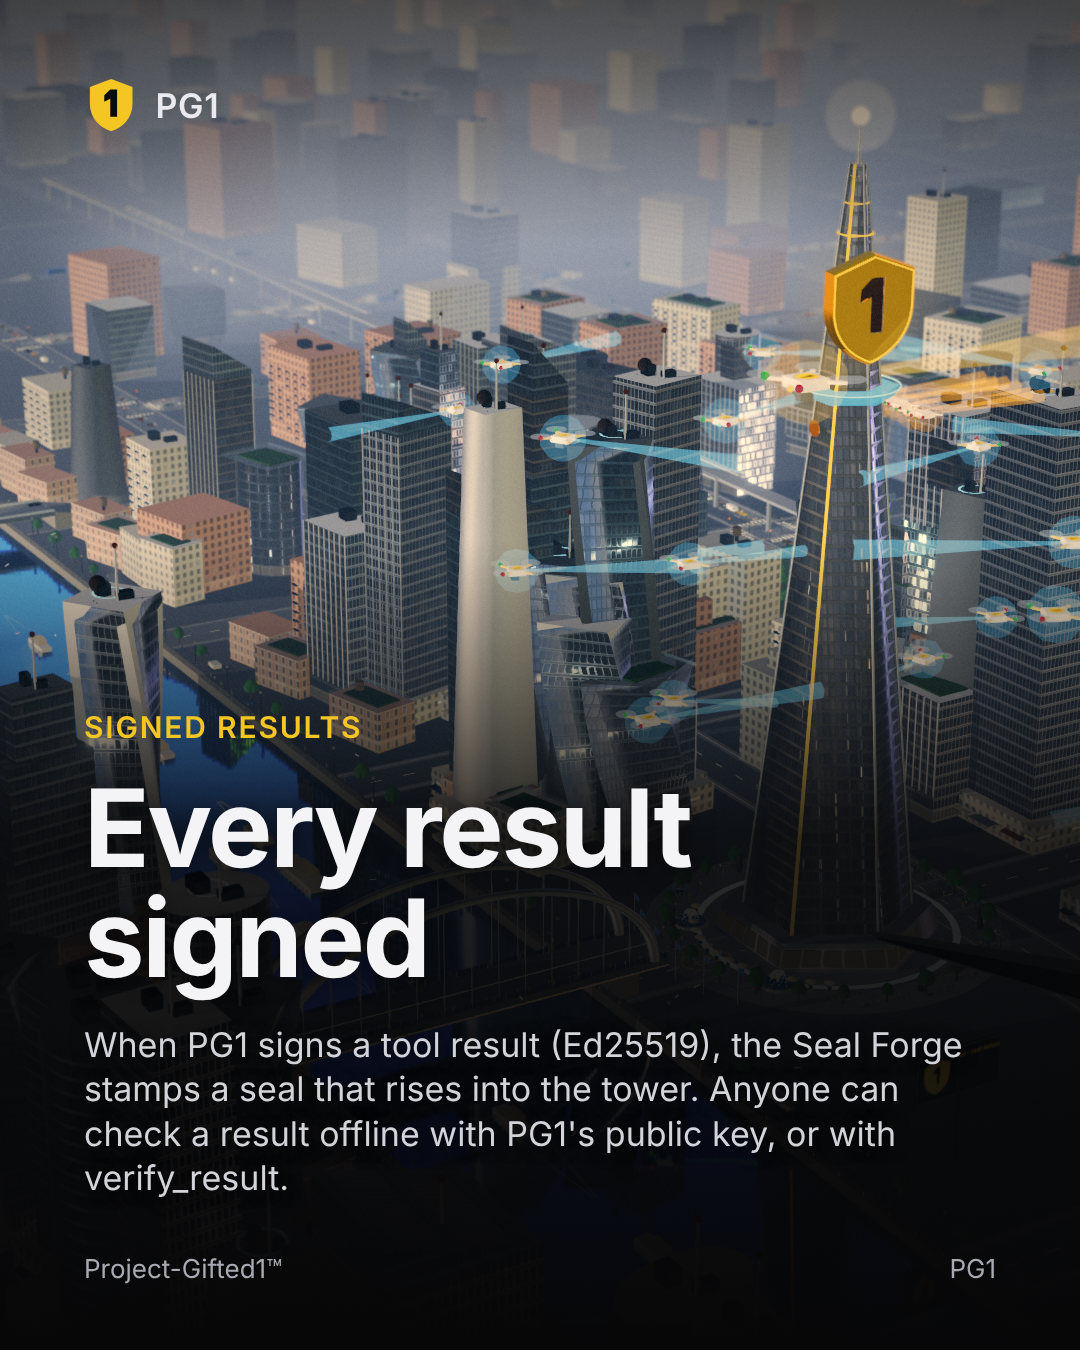
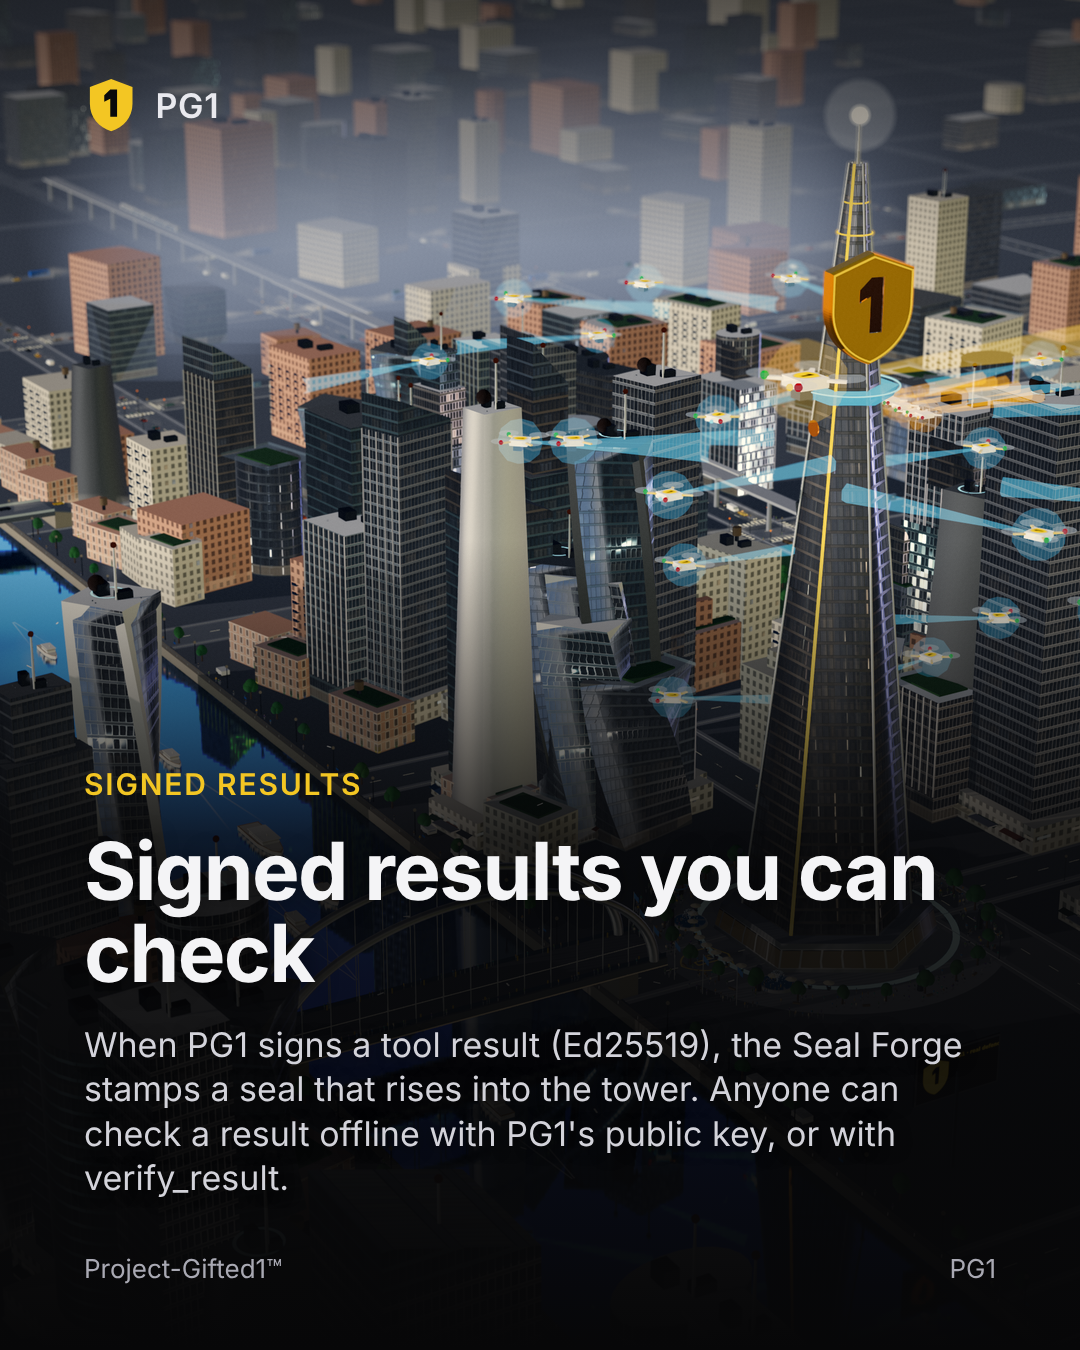
Inside PG1 City: the six-shot re-cut with its lower thirds, the two post captions, no place names on screen
Reel: crown tower, probe, river, patrols, weather, whole city (24.2 s, the
4.5 s renders of run 45421308040 at 3302d8c), each lower third from the
render's counts; the first on screen from frame one. The feed window now
reads 212 events (213 before), 12 countries. copy.md: the Instagram/TikTok
and X captions word for word, the reel table for the new cut, the data
notes and the weather credit kept. Slides, Story and both contact sheets
rebuilt from the same renders.

Claude-Session: https://claude.ai/code/session_01X8yNKFkrAckvfbCsbkHhN5

Changed region(s): [[0.0, 0.0, 1.0, 0.7467], [0.5194, 0.4667, 0.55, 0.4978]]

diff --git a/docs/social/2026-11-24/copy.md b/docs/social/2026-11-24/copy.md
@@ -5,38 +5,49 @@ Built by `scripts/social-inside-city.mjs` from the Showcase render (`scripts/sho
 ## Data
 
 - **Window:** the defence feed's last 7 days, read only, up to 2026-11-24T00:14:54.000Z (UTC).
-- **Events:** real PG1 events, last 7 days to 2026-11-24T00:14:54.000Z (213 shown of 216; payments and caller hashes left out).
+- **Events:** real PG1 events, last 7 days to 2026-11-24T00:14:54.000Z (212 shown of 215; payments and caller hashes left out).
 - **Counts shown:** probes and checks from 12 countries (CA, CZ, DE, FI, FR, GB, HK, IL, KR, NL, RU, US), events dated 20 Nov, 23:47 to 23 Nov, 23:36. Countries come from IP geolocation and are approximate. No payment figure is shown anywhere.
 - **Weather:** Dublin, recorded (Open-Meteo archive (ERA5 reanalysis)): 2026-11-23T05:00 51 (rain) then 2026-11-23T06:00 3 (clearing), Europe/Dublin time. Weather data by Open-Meteo.com (CC BY 4.0). Not live.
 - **Privacy:** no caller hash, IP or anything identifying a caller is in the renders, the reel or this file.
 
 ## Reel (`reel-1080x1920.mp4`)
 
-30.0 s, 1080 x 1920, H.264 (libx264 -preset veryfast -crf 18), yuv420p, 30 fps, 0.5 s crossfades, no audio.
+Download: [reel-1080x1920.mp4](https://github.com/Project-Gifted1/pg1-ai-agent/releases/download/social-2026-11-24/reel-1080x1920.mp4) (release asset `social-2026-11-24`; the MP4 is kept out of git).
+
+24.2 s, 1080 x 1920, H.264 (libx264 -preset veryfast -crf 18), yuv420p, 30 fps, 0.2 s crossfades, no audio.
+
+6 shots in this order; each lower third is on screen for the whole shot, the first from the first frame. No city or place name in any caption or label.
 
 | Shot | Lower third | In the reel | Real data replayed |
 |---|---|---|---|
-| The crown tower | "Every event is real" | 3.2 s | none (no event staged) |
-| A real probe arrives | "Probes from 12 countries" | 3.2 s | probe US Gate Wardens: malformed call (23 Nov, 23:36) |
-| A result is signed | left out: no real signed result in the last 7 days | - | none (no event staged) |
-| Lane traffic at a junction | "Traffic keeps its lanes" | 3.2 s | none (no event staged) |
-| The river and the arched bridge | "Boats on the river" | 3.2 s | none (no event staged) |
-| Patrols meet real probes | "Patrols meet real probes" | 3.2 s | check verdict DE: flagged agent message (23 Nov, 12:16); check verdict US: flagged repo trap (21 Nov, 00:28); approval: waiting for approval (23 Nov, 07:30); probe DE Gate Wardens: unknown method probe (23 Nov, 22:35) |
-| Real Dublin weather | "Real Dublin weather" | 3.2 s | recorded weather 2026-11-23T05:00 → 2026-11-23T06:00 |
-| Street level in the plaza | "People in the plaza" | 3.2 s | none (no event staged) |
-| The tram line by day | "Trams on the line" | 3.2 s | none (no event staged) |
-| The city by day | "The city by day" | 3.2 s | none (no event staged) |
-| Day to night | "Windows follow Dublin time" | 3.2 s | none (no event staged) |
-| Director mode | left out: cut in the edit: its follow camera ends in a dark close-up on the river; the whole-city shot replays the same director events | - | none (no event staged) |
-| The whole city | "Inside PG1 City" | 3.2 s | check verdict DE: flagged agent message (23 Nov, 12:16); check verdict US: flagged repo trap (21 Nov, 00:28); approval: waiting for approval (23 Nov, 07:30); probe DE Gate Wardens: unknown method probe (23 Nov, 22:35) |
+| The crown tower | "A city built from real AI-agent activity" | 4.2 s | none (no event staged) |
+| A real probe arrives | "212 real events in 7 days" | 4.2 s | probe US Gate Wardens: malformed call (23 Nov, 23:36) |
+| The river and the arched bridge | "One week, replayed as it happened" | 4.2 s | none (no event staged) |
+| Patrols meet real probes | "Probes and checks from 12 countries" | 4.2 s | check verdict DE Truth Lens: malicious (23 Nov, 12:16); check verdict US Repo Trap Scanner: malicious (21 Nov, 00:28); probe DE Gate Wardens: unknown method probe (23 Nov, 22:35); report Watchtower Beacons: report landed (23 Nov, 07:30) |
+| Recorded weather | "Real weather, real time of day" | 4.2 s | recorded weather 2026-11-23T05:00 → 2026-11-23T06:00 |
+| The whole city | "Free checks for AI agents · Link in bio" | 4.2 s | check verdict DE Truth Lens: malicious (23 Nov, 12:16); check verdict US Repo Trap Scanner: malicious (21 Nov, 00:28); probe DE Gate Wardens: unknown method probe (23 Nov, 22:35); report Watchtower Beacons: report landed (23 Nov, 07:30) |
 
-## Post caption (ready to paste)
+Rendered for the carousel only (not in the reel): a result is signed, lane traffic at a junction, street level in the plaza, the tram line by day, the city by day, day to night.
 
-Inside PG1 City: a live 3D city drawn from PG1's real activity. 213 real events in 7 days (17 Nov–24 Nov 2026), with probes and checks from 12 countries, replayed as they happened. Boats, trams, traffic and Dublin's recorded weather fill in the rest; every event in it is real.
+## Post captions (ready to paste)
 
-Free checks for AI agents: link in bio.
+### Instagram / TikTok
 
-Project-Gifted1™
+One week of real AI-agent activity, rendered as a city.
+
+212 events from 12 countries: every probe and check PG1 logged, replayed as it happened.
+
+PG1 checks AI agents before they act. Free for agents and developers. Link in bio.
+
+#AIagents #AIsecurity #MCP #DevTools
+
+### X (link in the first reply)
+
+One week of real AI-agent activity, rendered as a city.
+
+212 events. 12 countries. Every probe and check PG1 logged, replayed as it happened.
+
+PG1 checks AI agents before they act. Free for developers.
 
 ## Carousel (1080 x 1350) and Story
 
@@ -72,7 +83,7 @@ _Image: the "city-day" shot._
 
 ### 5. Lanes, rain and real weather · Traffic and weather
 
-Cars keep to their lanes, queue at red lights and clear on green. The sky follows Dublin's real weather and time of day; in rain the streets turn wet and mirror the lights.
+Cars keep to their lanes, queue at red lights and clear on green. The sky follows the real weather and time of day; in rain the streets turn wet and mirror the lights.
 
 _Image: the "junction-traffic" shot._
 
